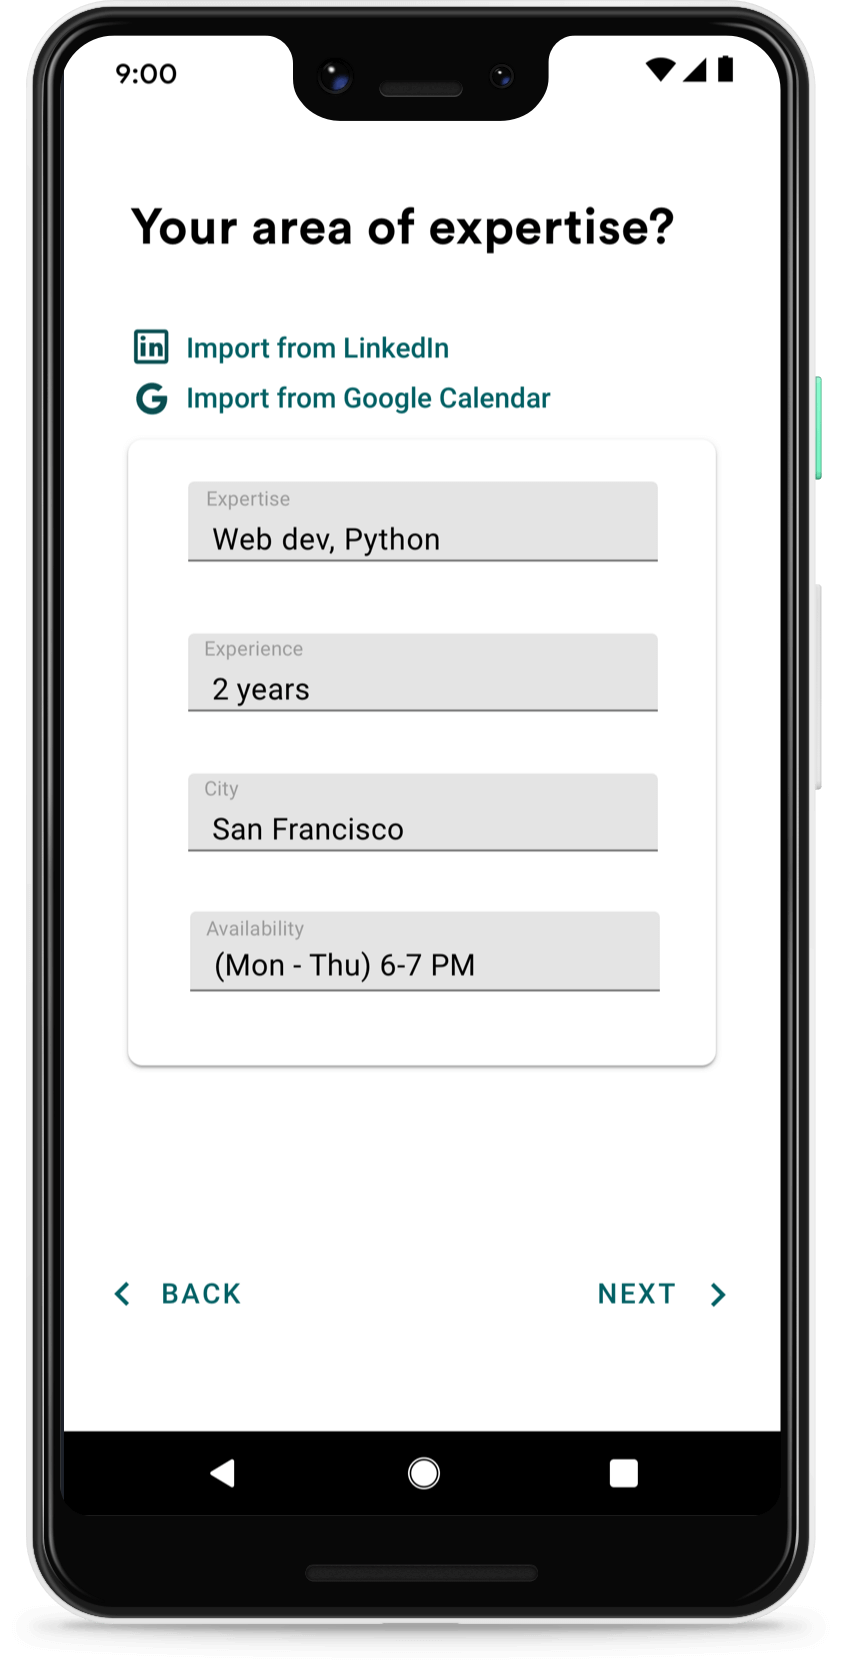
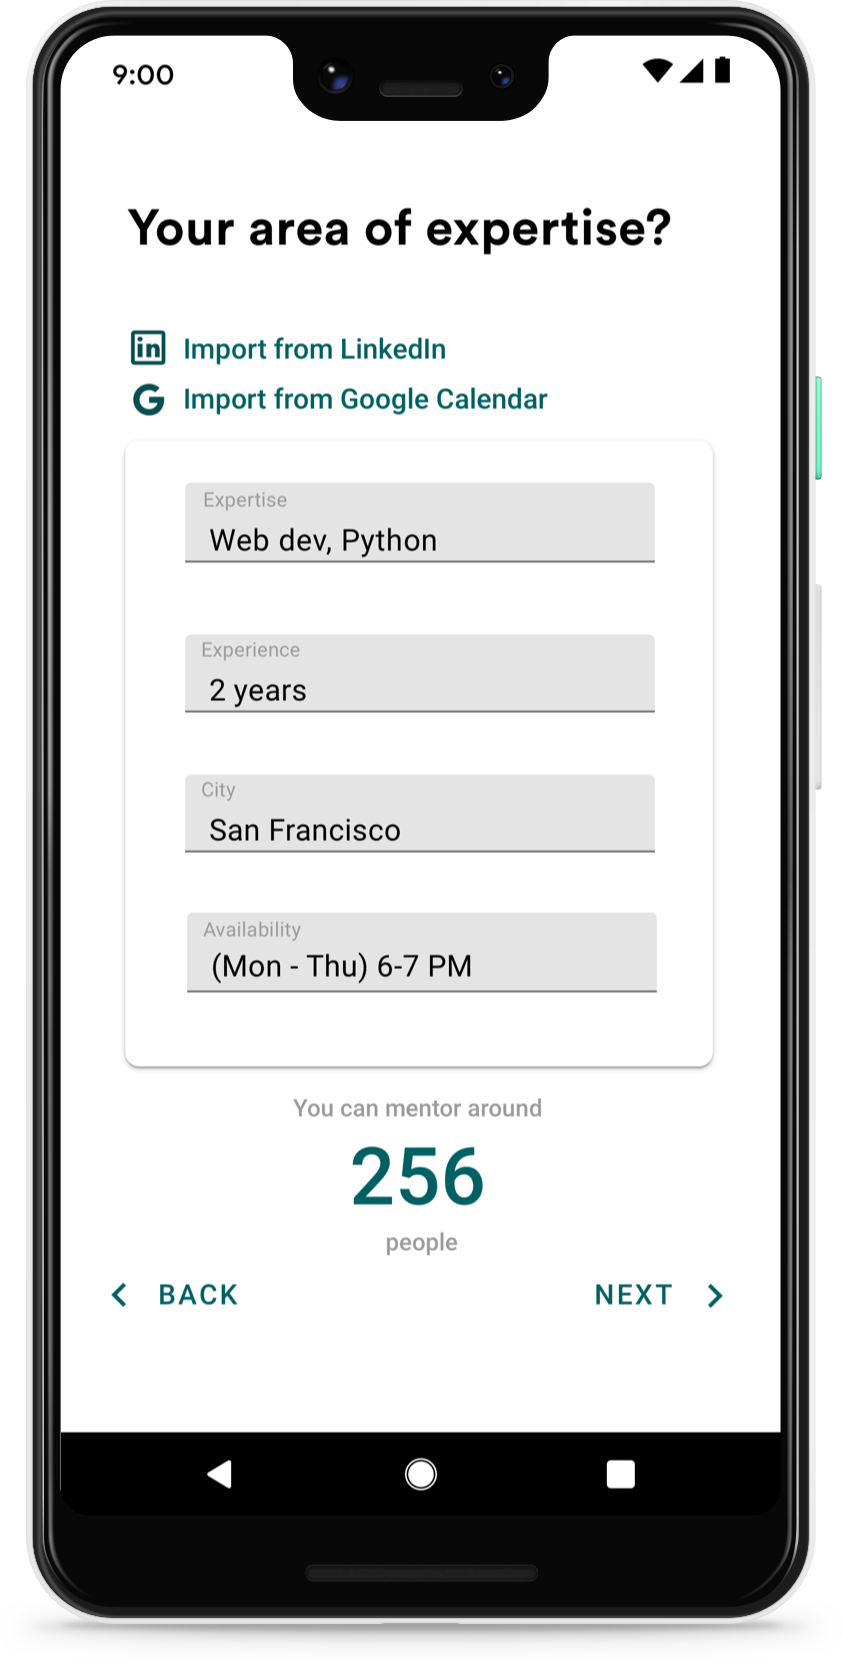
more changes

diff --git a/portfolio/src/pages/project/midojo/index.html b/portfolio/src/pages/project/midojo/index.html
@@ -88,7 +88,7 @@ prev_name: Water Connection Transition
                 <div class="large-4 large-offset-2 cell mockup-description align-self-middle">
                     <p class="read bold">Onboarding</p>
                     <p class="read">New users are educated about mentorship, and how the app is designed to solve their problems.</p>
-                    p.      
+                    <p class="read accent">Onboarding introduces new features, vocabulary, and also alleviates some pre conveived notions. In this case, we want mentors to know that they don't have to be seasoned veterans to help, and mentees should understand that it's okay to ask for help.</p>   
                 </div>
                 
                 <div class="large-3 large-offset-1 cell">
@@ -126,8 +126,8 @@ prev_name: Water Connection Transition
                     
                     <div class="large-4 large-offset-1 cell mockup-description align-self-middle">
                         <p class="read bold">Gather useful information for matching</p>
-                        <p class="read">Mentors need not be experts in their field. Someone can be a mentor even if they have two more years of experience. Metadata such as expertise, years of experience, location and availability can be used to match mentors and mentees.</p>
-                        <p class="read">Social logins are available to import data from other popular professional networking sites.</p>
+                        <p class="read">Necessary metadata such as expertise, experience, and the location is taken by the new mentor. This will help us to match them with mentees. A live counter tells the approximate number of mentees they can be of use to with the information input.</p>
+                        <p class="read accent">Filling forms is a tough task indeed. Social logins are provided to automate this as much as possible. Amusing elements like the people counter helps sustain the user longer.</p>
                     </div>
                     
                     
@@ -135,7 +135,8 @@ prev_name: Water Connection Transition
                     
                     <div class="large-4 large-offset-2 cell mockup-description align-self-middle">
                         <p class="read bold">Set your time commitment. More time ~ more mentees</p>
-                        <p class="read">Mentors can assist more than one mentee, but that would require a greater time commitment. Mentors can set aside a certain number of hours per week to engage their mentees. This would guarantee a good experience for both mentor and mentee.</p>
+                        <p class="read">Mentors can assist more than one mentee, depending on the time they can expend. The mentees are assigned accordingly.</p>
+                        <p class="read accent">Asking tough questions like this can nudge the mentor to think seriously about the mentorship program. The downside is ofcourse, abandonment at this stage. But it should positively affect the mentee experience. The illustration is live, as the user slides to a higher value, more "humaaans" are added.</p>
                     </div>
                     
                     <div class="large-3 large-offset-1 cell">
@@ -150,7 +151,8 @@ prev_name: Water Connection Transition
                     
                     <div class="large-4 large-offset-1 cell mockup-description align-self-middle">
                         <p class="read bold">Ready to start helping! Spread the word</p>
-                        <p class="read">An empty state screen tells the mentor that the setup has been done successfully. Mentorship is also a popular achievement to display on professional networks. This achievement can be shared on LinkedIn and Twitter directly from the app.</p>
+                        <p class="read">A screen to show that the signup process is complete. Social share options are available.</p>
+                        <p class="read accent">Designing this screen was a bit challenging. I wanted the mentor to have some form of positive experience after the tedious signup process. Perhaps social share might do the trick.</p>
                     </div>     
                     
                     
@@ -158,7 +160,7 @@ prev_name: Water Connection Transition
                     <div class="large-4 large-offset-1 cell mockup-description align-self-middle">
                         <p class="read bold">Smart way to select your mentees</p>
                         <p class="read">Mentor receives requests from the mentees in the app inbox.</p>
-                        <p class="read">Research revealed that mentors shouldn't be seen as long term friends/guru. Mentors are more willing to help, if they have a good idea of what they're getting into. The mentees are prompted to draft a clear request, and the same is highlighted to the mentor.</p>
+                        <p class="read accent">Research revealed that mentors shouldn't be seen as long term friends/guru. Mentors are more willing to help, if they have a good idea of what they're getting into. The mentees are prompted to draft a clear request, and the same is highlighted to the mentor.</p>
                     </div>
                     
                     <div class="large-3 large-offset-1 cell">
@@ -178,7 +180,13 @@ prev_name: Water Connection Transition
                     
                     <div class="large-4 large-offset-1 cell mockup-description align-self-middle">
                         <p class="read bold">Start helping & get "hooked"</p>
-                        <p class="read">Mentors get the pleasure of earning "fans" on the way. The mentor-mentee relationship has the potential of forming a habit. Trigger (notification), Action (chat response), Variable Reward (mentee feedback in forms of personalized appreciation cards), Investment (selection process).</p>
+                        <p class="read accent">Mentors get the pleasure of earning "fans" on the way. The mentor-mentee relationship has the potential of forming a habit. (as define by Nir Eyal)</p>
+                        <ul class="accent">
+                            <li><p class="read accent">Trigger (notification)</p></li>
+                            <li><p class="read accent">Action (chat response)</p></li>
+                            <li><p class="read accent">Variable Reward (mentee feedback in forms of personalized appreciation cards)</p></li>
+                            <li><p class="read accent">Investment (selection process)</p></li>
+                        </ul>
                     </div>
                     
                     
@@ -209,7 +217,8 @@ prev_name: Water Connection Transition
             
             <div class="large-4 large-offset-2 cell mockup-description align-self-middle">
                 <p class="read bold">Relevant Results. Quick!</p>
-                <p class="read">Mentorship can exist to further ones' career, fitness or hobbies. MiDojo encompasses all such mentors. A filter option then allows the mentee to focus on the tasks they need assistance with at the moment, and choose the relevant mentors. The filter is used to narrow the search result to a certain extent. It is not designed to be very specific, as that can lead to missed opportunities.</p>
+                <p class="read">MiDojo offers mentors to further ones' fitness goals and hobbies too. Powerful search options can be used to get to the right mentor.</p>
+                <p class="read accent">While it is possible to have a more rich set of filters, I decided against it. I want users to experience some magic here. If they set a range of 5 miles from their current location, I don't want them to miss a perfect guru 7 miles away. A star feature is available to scan and shortlist.</p>
             </div>
             
             <div class="large-3 large-offset-1 cell">
@@ -223,14 +232,15 @@ prev_name: Water Connection Transition
             
             <div class="large-4 large-offset-1 cell mockup-description align-self-middle">
                 <p class="read bold">Discover the future you</p>
-                <p class="read">Mentor profiles allow mentees to find mentors with similar interests. The mentor profile is a snapshot of their personality. The mentor can be contacted from the </p>
+                <p class="read">Apart from linking their Linkedin and Behance profile, mentors are allowed to write a bit more about why they want to mentor and what they seek out of it, and any additional data. A basic gallery is also provided to showcase work without leaving the app.</p>
+                <p class="read accent">The contact mentor is not available on the search result page. This is to nudge them into glancing at the mentor profile before they can apply.</p>
             </div>
             
             
             
             <div class="large-4 large-offset-2 cell mockup-description align-self-middle">
                 <p class="read bold">Personalized requests</p>
-                <p class="read">Mentors can be picky about whom they would want to work with. Mentors love it when the mentees can reap benefits from their advice. To help mentees approach the mentors effectively, a set of questions are listed to gain the mentor's trust. The level of effort introduced here, makes sure that mentees do not approach many mentors at once.</p>
+                <p class="read">Depending on the volume of applications, mentors can be picky. Questions act as a set of guidelines to allow mentees to approach more effectively.</p>
             </div>
             
             <div class="large-3 large-offset-1 cell">
@@ -248,7 +258,7 @@ prev_name: Water Connection Transition
             <div class="large-4 large-offset-1 cell mockup-description align-self-middle">
                 <p class="read bold">First Chat</p>
                 <p class="read">This is the first chat between two strangers! To make the first chat a bit comfortable, suggested topics are mentioned as help text. The two are prompted to introduce themselves, discuss their interests and plan a meeting.</p>
-                <p class="read">While it isn't technologically complex to suggest a meeting place and meeting times based on GPS information and calendar data, it is technologically complex to measure people's intentions. If the mentee is highly motivated, they may travel a great distance or make time to meet the mentor.</p>
+                <p class="read accent">Some automation may be introduced to suggest meeting times and places, but I decided to keep it simple to avoid distractions.</p>
             </div>
             
             <div class="large-8 large-offset-2 cell">
@@ -270,7 +280,6 @@ prev_name: Water Connection Transition
             <div class="large-4 cell">
                 <figure class="article-image">
                     <img src="{{root}}assets/img/midojo/notes2.png" class="lightbox-enable">
-                    <figcaption>Traits of good mentorship.</figcaption>
                 </figure>
             </div>
             <div class="large-4 cell">
@@ -283,6 +292,11 @@ prev_name: Water Connection Transition
                     <img src="{{root}}assets/img/midojo/notes4.png" class="lightbox-enable">
                 </figure>
             </div>
+            <div class="large-4 cell">
+                    <figure class="article-image">
+                        <img src="{{root}}assets/img/midojo/collage.png" class="lightbox-enable">
+                    </figure>
+                </div>
             
             <div class="large-offset-2 large-8 cell">
                 <p class="read bold">Primary Research</p>
@@ -440,15 +454,26 @@ prev_name: Water Connection Transition
             </div>
             
             <div class="large-8 large-offset-2 cell">
-                <h2 class="name">Some learnings</h2>
+                <h2 class="name">Next steps</h2>
                 <ul>
                     <li><p class="read">Conduct more interviews. Mentorship varies with profession.</p></li>
-                    <li><p class="read">Practice material design. I was disappointed with the number of resources available online for material design. iOS seems to be more designer friendly/popular.</p></li>
                     <li><p class="read">Conceptualize a desktop as well. It makes sense to have a desktop app / website for this system. Since significant reading, writing is invoved.</p></li>
-                    <li><p class="read">Make more prototypes. User principle to show interactions.</p></li>
                     <li><p class="read">Test and iterate!</p></li>
                 </ul>
             </div>
+
+            <div class="large-8 large-offset-2 cell">
+                    <h2 class="name">Some learnings</h2>
+                    <ul>
+                        <li><p class="read">Some extra synthesis steps, can help get more insights from existing data.</p></li>
+                        <li>
+                            <p class="read">UI design can take a lot of time.</p>
+                        </li>
+                        <li>
+                            <p class="read">Best way to learn about a new design system is to use it. It has been a while since I've used an android phone, and a lot has changed since then.</p>
+                        </li>
+                    </ul>
+                </div>
             
         </div>
     </div>

diff --git a/portfolio/src/assets/scss/_page.scss b/portfolio/src/assets/scss/_page.scss
@@ -250,6 +250,9 @@ img[data-src] {
 				}
 			}
 		}
+		.accent {
+			color: #006064;
+		}
 	}
 
 	.intro {
